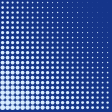
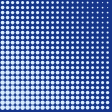
Preserve detail across halftone presets

diff --git a/renderer-core.js b/renderer-core.js
@@ -28,14 +28,23 @@ function hash2d(x, y, salt, seed) {
   return value - Math.floor(value);
 }
 
-function adjustedLuma(r, g, b, contrast, gamma) {
-  let value = (0.299 * r + 0.587 * g + 0.114 * b) / 255;
-  value = Math.pow(value, gamma);
-  value = (value - 0.5) * contrast + 0.5;
-  return clamp(value, 0, 1);
+function pixelLuma(r, g, b) {
+  return (0.299 * r + 0.587 * g + 0.114 * b) / 255;
 }
 
-function fillIntegralRows(integral, data, width, contrast, gamma, startY, endY) {
+function toneLuma(value, contrast, gamma) {
+  const corrected = Math.pow(clamp(value, 0, 1), gamma);
+  if (contrast === 1) return corrected;
+
+  // A symmetric power curve keeps the end points and remains continuous at
+  // the midpoint. Unlike linear contrast followed by clamp(), it does not
+  // erase highlight and shadow differences before they reach the dot screen.
+  return corrected < 0.5
+    ? 0.5 * Math.pow(corrected * 2, contrast)
+    : 1 - 0.5 * Math.pow((1 - corrected) * 2, contrast);
+}
+
+function fillIntegralRows(integral, data, width, startY, endY) {
   const stride = width + 1;
 
   for (let y = startY; y < endY; y += 1) {
@@ -46,21 +55,19 @@ function fillIntegralRows(integral, data, width, contrast, gamma, startY, endY) 
 
     for (let x = 0; x < width; x += 1) {
       const pixelIndex = pixelRow + x * 4;
-      row += adjustedLuma(
+      row += pixelLuma(
         data[pixelIndex],
         data[pixelIndex + 1],
-        data[pixelIndex + 2],
-        contrast,
-        gamma
+        data[pixelIndex + 2]
       );
       integral[integralRow + x + 1] = integral[integralPreviousRow + x + 1] + row;
     }
   }
 }
 
-function buildLumaIntegral(data, width, height, contrast, gamma) {
+function buildLumaIntegral(data, width, height) {
   const integral = new Float32Array((width + 1) * (height + 1));
-  fillIntegralRows(integral, data, width, contrast, gamma, 0, height);
+  fillIntegralRows(integral, data, width, 0, height);
   return integral;
 }
 
@@ -130,7 +137,7 @@ function renderGridRow(state, gridYPosition) {
     targetCtx, integral, width, height, settings, centerX, centerY,
     cosine, sine, diagonal, radiusScale, samplingRadius
   } = state;
-  const { cellSize, minDot, toneCurve, microDotAmount, jitter, seed, quality } = settings;
+  const { cellSize, contrast, gamma, minDot, toneCurve, microDotAmount, jitter, seed, quality } = settings;
 
   for (let gridXPosition = -diagonal; gridXPosition <= diagonal; gridXPosition += cellSize) {
     const x = centerX + gridXPosition * cosine - gridYPosition * sine;
@@ -142,15 +149,22 @@ function renderGridRow(state, gridYPosition) {
     const baseLuma = sampleBoxAverage(integral, width, height, x, y, samplingRadius);
     const edgeStrength = sampleEdgeStrength(integral, width, height, x, y, samplingRadius);
 
-    let darkness = Math.pow(1 - baseLuma, toneCurve);
+    let darkness = Math.pow(1 - toneLuma(baseLuma, contrast, gamma), toneCurve);
     darkness = clamp(darkness + edgeStrength * quality.edgeBoost * (1 - darkness), 0, 1);
 
     const bayer = BAYER_8X8[((gridY & 7) * 8) + (gridX & 7)] - 0.5;
     darkness = clamp(darkness + bayer * quality.ditherAmount * (1 - darkness * 0.55), 0, 1);
     if (darkness < 0.003) continue;
 
-    const dotStrength = minDot + (1 - minDot) * darkness;
-    const radius = clamp(dotStrength * radiusScale * (1 + edgeStrength * 0.12), 0, radiusScale);
+    // A circle's visible coverage grows with the square of its radius. Map the
+    // tone to area so midtones retain their intended weight, while minDot keeps
+    // its existing meaning as the smallest radius rather than an area value.
+    const minimumRadius = clamp(minDot, 0, 1);
+    const radiusStrength = Math.sqrt(
+      minimumRadius * minimumRadius
+      + (1 - minimumRadius * minimumRadius) * darkness
+    );
+    const radius = clamp(radiusStrength * radiusScale * (1 + edgeStrength * 0.12), 0, radiusScale);
     const jitterX = (hash2d(gridX, gridY, 0.1, seed) - 0.5) * cellSize * 0.5 * jitter;
     const jitterY = (hash2d(gridX, gridY, 0.9, seed) - 0.5) * cellSize * 0.5 * jitter;
 
@@ -181,7 +195,7 @@ function renderGridRow(state, gridYPosition) {
 }
 
 export function renderHalftoneSync(targetCtx, pixelData, width, height, settings) {
-  const integral = buildLumaIntegral(pixelData, width, height, settings.contrast, settings.gamma);
+  const integral = buildLumaIntegral(pixelData, width, height);
   const state = createRenderState(targetCtx, integral, width, height, settings);
 
   for (let gridY = -state.diagonal; gridY <= state.diagonal; gridY += settings.cellSize) {
@@ -204,7 +218,7 @@ export async function renderHalftoneAsync(targetCtx, pixelData, width, height, s
   for (let startY = 0; startY < height; startY += integralChunkRows) {
     if (shouldCancel()) return { cancelled: true };
     const endY = Math.min(height, startY + integralChunkRows);
-    fillIntegralRows(integral, pixelData, width, settings.contrast, settings.gamma, startY, endY);
+    fillIntegralRows(integral, pixelData, width, startY, endY);
     onProgress((endY / height) * 0.5);
     await yieldControl();
   }

diff --git a/test/renderer-core.test.js b/test/renderer-core.test.js
@@ -76,7 +76,69 @@ test("renderer output stays deterministic", () => {
   renderHalftoneSync(context, fixture.pixels, fixture.width, fixture.height, fixture.settings);
 
   const digest = createHash("sha256").update(JSON.stringify(context.operations)).digest("hex");
[2 lines of base64/hex data omitted]
+});
+
+test("dot area follows image darkness while preserving the minimum radius", () => {
+  const width = 9;
+  const height = 9;
+  const gray = 128;
+  const pixels = new Uint8ClampedArray(width * height * 4);
+  for (let index = 0; index < pixels.length; index += 4) {
+    pixels[index] = pixels[index + 1] = pixels[index + 2] = gray;
+    pixels[index + 3] = 255;
+  }
+  const context = new RecordingContext();
+  const cellSize = 3;
+  const minDot = 0.2;
+  renderHalftoneSync(context, pixels, width, height, {
+    cellSize,
+    contrast: 1,
+    gamma: 1,
+    minDot,
+    angle: 0,
+    toneCurve: 1,
+    microDotAmount: 0,
+    jitter: 0,
+    seed: 0,
+    quality: { sampleRadius: 0.5, edgeBoost: 0, ditherAmount: 0 },
+    ink: "#000",
+    paper: "#fff"
+  });
+
+  const radius = context.operations.find(([operation]) => operation === "arc")[4];
+  const radiusScale = cellSize * 0.5;
+  const normalizedArea = (radius / radiusScale) ** 2;
+  const darkness = 1 - gray / 255;
+  const expectedArea = minDot ** 2 + (1 - minDot ** 2) * darkness;
+  assert.ok(Math.abs(normalizedArea - expectedArea) < 1e-7);
+});
+
+test("high contrast preserves highlight information instead of clipping it", () => {
+  const width = 9;
+  const height = 9;
+  const pixels = new Uint8ClampedArray(width * height * 4);
+  for (let index = 0; index < pixels.length; index += 4) {
+    pixels[index] = pixels[index + 1] = pixels[index + 2] = 220;
+    pixels[index + 3] = 255;
+  }
+  const context = new RecordingContext();
+  renderHalftoneSync(context, pixels, width, height, {
+    cellSize: 3,
+    contrast: 2.2,
+    gamma: 0.95,
+    minDot: 0,
+    angle: 0,
+    toneCurve: 1,
+    microDotAmount: 0,
+    jitter: 0,
+    seed: 0,
+    quality: { sampleRadius: 0.5, edgeBoost: 0, ditherAmount: 0 },
+    ink: "#000",
+    paper: "#fff"
+  });
+
+  assert.ok(context.operations.some(([operation]) => operation === "arc"));
 });
 
 test("chunked renderer produces the same output as the synchronous renderer", async () => {

diff --git a/script.js b/script.js
@@ -215,12 +215,12 @@ const builtInPresets = {
   // Clean, regular dots and balanced tonal separation for graphic posters.
   red: {
     quality: "ultra",
-    cellSize: 8,
-    contrast: 1.55,
-    gamma: 0.95,
-    minDot: 4,
+    cellSize: 6,
+    contrast: 1.35,
+    gamma: 1,
+    minDot: 2,
     screenAngle: 22,
-    toneCurve: 0.95,
+    toneCurve: 1.05,
     microDot: 0,
     jitter: 0,
     seed: 11,
@@ -230,44 +230,44 @@ const builtInPresets = {
   // Softer ink coverage, irregular dots and light grain on warm paper.
   orange: {
     quality: "high",
-    cellSize: 9,
-    contrast: 1.25,
-    gamma: 0.92,
-    minDot: 14,
+    cellSize: 6,
+    contrast: 1.15,
+    gamma: 1,
+    minDot: 4,
     screenAngle: 15,
-    toneCurve: 1.1,
-    microDot: 38,
-    jitter: 32,
+    toneCurve: 1.05,
+    microDot: 18,
+    jitter: 12,
     seed: 42,
     inkColor: "#ad551e",
     paperColor: "#f3dfbc",
-    grainStrength: 18
+    grainStrength: 10
   },
   // A luminous negative: bright dots on dark paper, with restrained glow.
   neon: {
     quality: "ultra",
-    cellSize: 7,
-    contrast: 2.2,
-    gamma: 0.82,
+    cellSize: 5,
+    contrast: 1.5,
+    gamma: 0.95,
     minDot: 0,
     screenAngle: 30,
-    toneCurve: 0.72,
+    toneCurve: 0.95,
     microDot: 0,
     jitter: 0,
     seed: 99,
     inkColor: "#b5ff3d",
     paperColor: "#101510",
-    bloomStrength: 14
+    bloomStrength: 8
   },
   // A fine, axis-aligned screen with pale ink on deep blue paper.
   blue: {
     quality: "high",
     cellSize: 5,
-    contrast: 1.35,
-    gamma: 1.05,
+    contrast: 1.2,
+    gamma: 1.02,
     minDot: 0,
     screenAngle: 0,
-    toneCurve: 1.15,
+    toneCurve: 1.1,
     microDot: 0,
     jitter: 0,
     seed: 256,

diff --git a/test/studio-panel.test.js b/test/studio-panel.test.js
@@ -131,9 +131,11 @@ test('visual preset options preserve selection and distinguish built-in samples 
   assert.equal(options[0].querySelector('.studio-preset-description').textContent, 'Crisp, balanced poster');
   assert.equal(options[2].querySelector('img'), null);
   assert.equal(options[2].querySelector('.studio-preset-description').textContent, 'Your saved preset');
-  options[1].click();
+  options[1].dispatchEvent(new browser.MouseEvent('click', { bubbles: true, detail: 1 }));
   assert.equal(state.selectedPreset, 'fine');
   assert.equal(document.querySelector('.studio-preset-menu'), null);
+  await Promise.resolve();
+  assert.notEqual(document.activeElement, trigger);
   key(trigger, 'ArrowDown');
   await new Promise((resolve) => browser.requestAnimationFrame(resolve));
   popup = document.querySelector('.studio-preset-menu');

diff --git a/src/preset-select.js b/src/preset-select.js
@@ -41,6 +41,15 @@ export function mountPresetSelect(host, initial) {
       text.append(name, description);
       button.classList.add('studio-preset-option');
       button.replaceChildren(text);
+      button.addEventListener('click', (event) => {
+        if (event.detail === 0) return;
+        // DialKit correctly restores the trigger for keyboard selection. A
+        // pointer selection does not need that focus, and leaving it there
+        // makes the macOS screenshot shortcut surface a misleading ring.
+        queueMicrotask(() => {
+          if (document.activeElement === trigger) trigger.blur();
+        });
+      });
       if (sample) {
         const image = document.createElement('img');
         image.className = 'studio-preset-sample';
